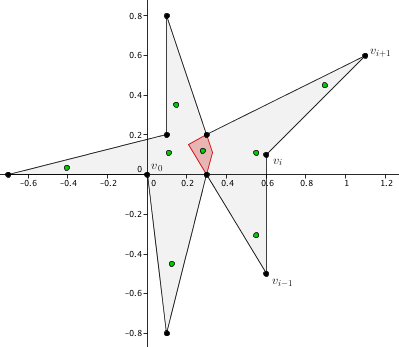
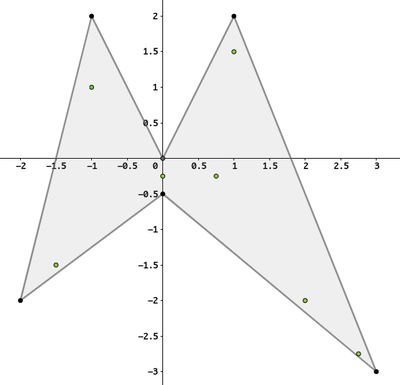
add a concave polygon.

diff --git a/Barycentric_coordinates_2/examples/Barycentric_coordinates_2/Maximum_entropy_coordinates_example.cpp b/Barycentric_coordinates_2/examples/Barycentric_coordinates_2/Maximum_entropy_coordinates_example.cpp
@@ -32,24 +32,19 @@ using std::cout; using std::endl; using std::string;
 
 int main()
 {
-    // Construct a star-shaped polygon.
-    const int number_of_vertices = 3;
+    // Construct a concave polygon.
+    const int number_of_vertices = 6;
     Point_vector vertices(number_of_vertices);
 
     Input_range point_range(number_of_vertices);
 
+    vertices[0]=Point(0.0,0.0); vertices[1]=Point(-1.0,2.0); vertices[2]=Point(-2.0,-2.0);
+    vertices[3]=Point(0.0,-0.5); vertices[4]=Point(3.0,-3.0); vertices[5]=Point(1.0,2.0);
 
-    //vertices[0] = Point(0.0, 0.0); vertices[1] = Point(0.1, -0.8); vertices[2] = Point(0.3, 0.0); vertices[3] = Point(0.6, -0.5); vertices[4]  = Point(0.6 , 0.1);
-    //vertices[5] = Point(1.1, 0.6); vertices[6] = Point(0.3,  0.2); vertices[7] = Point(0.1, 0.8); vertices[8] = Point(0.1,  0.2); vertices[9] = Point(-0.7, 0.0);
-    vertices[0]=Point(0.0,0.0); vertices[1]=Point(2.0,0.5);
-    vertices[2]=Point(1.0,2.0);
-
-    point_range[0]=Point_with_property(vertices[0],false);
-    point_range[1]=Point_with_property(vertices[1],false);
-    point_range[2]=Point_with_property(vertices[2],false);
-
-    Point_map point_map;
-
+    for(size_t i = 0; i < number_of_vertices; ++i)
+    {
+        point_range[i]=Point_with_property(vertices[i],false);
+    }
 
     // Create an std::vector to store coordinates.
     Scalar_vector coordinates;
@@ -61,24 +56,11 @@ int main()
 
 
     // Instantiate some interior points in the polygon.
-    //const int number_of_interior_points = 2;
-    //const Point interior_points[] = { Point(0.12, -0.45), Point(0.55, -0.3), Point(0.9 , 0.45),
-    //                                  Point(0.15,  0.35), Point(-0.4, 0.04), Point(0.11, 0.11),
-    //                                  Point(0.28,  0.12), // the only point in the kernel of the star shaped polygon
-    //                                  Point(0.55,  0.11)
-    //                                };
-    //const Point interior_points[] = { Point(0.5, 0.5), Point(0.01, 0.01) };
-    const int number_of_interior_points = 9;
-    const Point interior_points[] = { Point(0.5f , 0.5f ), Point(1.0f, 0.5f ), Point(1.0f , 0.75f), Point(1.0f , 1.0f),                     // interior query points
-                                   Point(1.0f , 1.25f), Point(1.0f, 1.5f ), Point(0.75f, 1.0f ), Point(1.25f, 1.0f), Point(1.5f, 0.75f),
-                                   //Point(1.0f , 0.25f), Point(0.5f, 1.0f ), Point(1.5f , 1.25f), Point(1.0f , 2.0f), Point(2.0f, 0.5f ), // boundary query points
-                                   //Point(0.25f, 1.0f ), Point(0.5f, 1.75f), Point(1.5f , 1.75f), Point(1.75f, 1.5f)                      // exterior query points
+    const int number_of_interior_points = 7;
+    const Point interior_points[] = { Point(-1.0f , 1.0f ), Point(-1.5f, -1.5f ), Point(0.0f , -0.25f), Point(1.0f , 1.5f),
+                                   Point(0.75f , -0.25f), Point(2.0f, -2.0f ), Point(2.75f, -2.75f )
                                  };
 
-    // Compute mean value coordinates for all the defined interior points.
-
-    // We speed up the computation using the O(n) algorithm called with the parameter CGAL::Barycentric_coordinates::FAST.
-    // The default one is CGAL::Barycentric_coordinates::PRECISE.
     const CGAL::Barycentric_coordinates::Type_of_algorithm type_of_algorithm = CGAL::Barycentric_coordinates::FAST;
 
     // We also speed up the computation by using the parameter query_point_location = CGAL::Barycentric_coordinates::ON_BOUNDED_SIDE.
@@ -94,38 +76,6 @@ int main()
         for(int j = 0; j < number_of_vertices; ++j)
             cout << "Coordinate " << j + 1 << " = " << coordinates[i * number_of_vertices + j] << endl;
     }
-
-    /*
-    // If we need only the unnormalized weights for some point (lets take the last one), we can compute them as follows.
-
-    // Instantiate an std::vector to store weights.
-    Scalar_vector weights;
-
-    // Compute mean value weights.
-    const int last_point_index = number_of_interior_points - 1;
-    const Output_type result = maximum_entropy_coordinates.compute_weights(interior_points[last_point_index], std::back_inserter(weights));
-
-    // Compute their sum.
-    Scalar mv_denominator = Scalar(0);
-    for(int j = 0; j < number_of_vertices; ++j) mv_denominator += weights[j];
-
-    // Invert this sum.
-    const Scalar mv_inverted_denominator = Scalar(1) / mv_denominator;
-
-    // Output the mean value weights.
-    const string status = (result ? "SUCCESS." : "FAILURE.");
-    cout << endl << "Status of the weights' computation for the point " << last_point_index + 1 << ": " << status << endl;
-
-    for(int j = 0; j < number_of_vertices; ++j)
-        cout << "Weight " << j + 1 << " = " << weights[j] << endl;
-
-    // Now, if we normalize the weights, we recover values of the mean value coordinates for the last point computed earlier.
-    cout << endl << "After normalization, for the point " << last_point_index + 1 << " mean value coordinates are " << endl;
-    for(int j = 0; j < number_of_vertices; ++j)
-        cout << "Coordinate " << j + 1 << " = " << weights[j] * mv_inverted_denominator << endl;
-    cout << endl;
-    */
-
 
     return EXIT_SUCCESS;
 }
